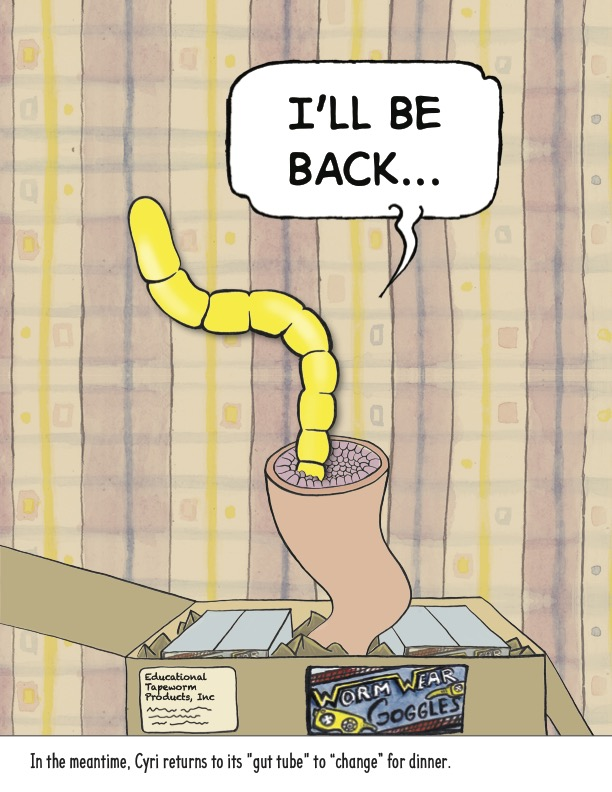
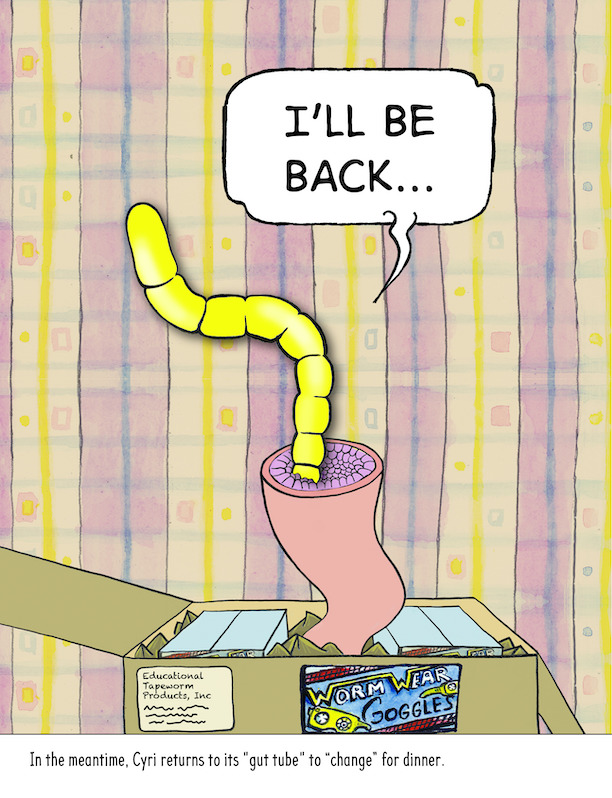
uploaded new images and made minor sizing and placement changes to accomidate

diff --git a/meet_the_suckers/src/FlipUp.tsx b/meet_the_suckers/src/FlipUp.tsx
@@ -3,11 +3,25 @@
 import { CSSProperties } from 'react';
 import styles from './FlipUp.module.css';
 
-import cursor from './assets/cursor.png';
+// import cursor from './assets/cursor.png';
 import flip_up_7a from './assets/suckers_7a.jpg';
 import flip_up_7b from './assets/suckers_7b.jpg';
 import flip_up_8a from './assets/suckers_8a.jpg';
 import flip_up_8b from './assets/suckers_8b.jpg';
+import flip_up_9a from './assets/suckers_9a.jpg';
+import flip_up_9b from './assets/suckers_9b.jpg';
+import flip_up_10a from './assets/suckers_10a.jpg';
+import flip_up_10b from './assets/suckers_10b.jpg';
+import flip_up_10c from './assets/suckers_10c.jpg';
+import flip_up_11a from './assets/suckers_11a.jpg';
+import flip_up_11b from './assets/suckers_11b.jpg';
+import flip_up_12a from './assets/suckers_12a.jpg';
+import flip_up_12b from './assets/suckers_12b.jpg';
+import flip_up_13a from './assets/suckers_13a.jpg';
+import flip_up_13b from './assets/suckers_13b.jpg';
+import flip_up_13c from './assets/suckers_13c.jpg';
+import flip_up_14a from './assets/suckers_14a.jpg';
+import flip_up_14b from './assets/suckers_14b.jpg';
 
 type FlipUpProps =  { 
     flipUp: IFlipUp, 
@@ -129,9 +143,10 @@ export interface IFlipUp {
 };
 
 export const FlipUpData: IFlipUp[] = [
+    // page  7
     {
         x: 265,
-        y: 210,
+        y: 200,
         width: 130,
         height: 98,
         imgSrc: flip_up_7a,
@@ -143,117 +158,131 @@ export const FlipUpData: IFlipUp[] = [
         height: 98,
         imgSrc: flip_up_7b,
         direction: EDirection.UP
-    }, {
+    }, 
+    // page 8
+    {
         x: 215,
         y: 175,
-        width: 120,
-        height: 100,
+        width: 130,
+        height: 98,
         imgSrc: flip_up_8a,
         direction: EDirection.UP
     }, {
         x: 230,
-        y: 410,
-        width: 120,
-        height: 100,
+        y: 390,
+        width: 130,
+        height: 98,
         imgSrc: flip_up_8b,
         direction: EDirection.UP
-    }, {
+    }, 
+    // page 9
+    {
         x: 275,
-        y: 250,
-        width: 120,
-        height: 100,
-        imgSrc: flip_up_7b,
+        y: 240,
+        width: 130,
+        height: 98,
+        imgSrc: flip_up_9a,
         direction: EDirection.UP
     }, {
         x: 338,
-        y: 576,
-        width: 120,
-        height: 100,
-        imgSrc: flip_up_7b,
+        y: 556,
+        width: 130,
+        height: 98,
+        imgSrc: flip_up_9b,
         direction: EDirection.UP
-    }, {
+    }, 
+    // page 10
+    {
         x: 110,
-        y: 105,
-        width: 120,
-        height: 100,
-        imgSrc: flip_up_7b,
+        y: 125,
+        width: 130,
+        height: 98,
+        imgSrc: flip_up_10a,
         direction: EDirection.UP
     }, {
         x: 230,
-        y: 342,
-        width: 120,
-        height: 100,
-        imgSrc: flip_up_7b,
+        y: 332,
+        width: 130,
+        height: 98,
+        imgSrc: flip_up_10b,
         direction: EDirection.UP
     }, {
         x: 158,
-        y: 592,
-        width: 120,
-        height: 100,
-        imgSrc: flip_up_7b,
+        y: 575,
+        width: 130,
+        height: 98,
+        imgSrc: flip_up_10c,
         direction: EDirection.UP
-    }, {
+    }, 
+    // page 11
+    {
         x: 124,
         y: 156,
-        width: 120,
-        height: 100,
-        imgSrc: flip_up_7b,
+        width: 130,
+        height: 98,
+        imgSrc: flip_up_11a,
         direction: EDirection.UP
     }, {
         x: 165,
         y: 343,
-        width: 120,
-        height: 100,
-        imgSrc: flip_up_7b,
+        width: 130,
+        height: 98,
+        imgSrc: flip_up_11b,
         direction: EDirection.UP
-    }, {
+    }, 
+    // page 12
+    {
         x: 85,
-        y: 105,
-        width: 120,
-        height: 100,
-        imgSrc: flip_up_7b,
+        y: 125,
+        width: 130,
+        height: 98,
+        imgSrc: flip_up_12a,
         direction: EDirection.UP
     }, {
-        x: 405,
-        y: 475,
-        width: 120,
-        height: 100,
-        imgSrc: flip_up_7b,
+        x: 395,
+        y: 465,
+        width: 130,
+        height: 98,
+        imgSrc: flip_up_12b,
         direction: EDirection.UP
-    }, {
+    }, 
+    // page 13
+    {
         x: 165,
         y: 322,
-        width: 120,
-        height: 100,
-        imgSrc: flip_up_7b,
+        width: 130,
+        height: 98,
+        imgSrc: flip_up_13a,
         direction: EDirection.UP
     }, {
         x: 103,
         y: 580,
-        width: 120,
-        height: 100,
-        imgSrc: flip_up_7b,
+        width: 130,
+        height: 98,
+        imgSrc: flip_up_13b,
         direction: EDirection.UP
     }, {
         x: 408,
         y: 592,
-        width: 120,
-        height: 100,
-        imgSrc: flip_up_7b,
+        width: 130,
+        height: 98,
+        imgSrc: flip_up_13c,
         direction: EDirection.UP
-    }, {
+    }, 
+    // page 14
+    {
         x: 430,
         y: 172,
-        width: 120,
-        height: 100,
-        imgSrc: flip_up_7b,
+        width: 130,
+        height: 98,
+        imgSrc: flip_up_14a,
         direction: EDirection.UP
     }, {
         x: 240,
         y: 543,
-        width: 120,
-        height: 100,
-        imgSrc: flip_up_7b,
+        width: 130,
+        height: 98,
+        imgSrc: flip_up_14b,
         direction: EDirection.UP
     }, 
 ];

diff --git a/meet_the_suckers/src/App.tsx b/meet_the_suckers/src/App.tsx
@@ -35,7 +35,7 @@ import page_24 from './assets/suckers_24.jpg';
 
 // constants
 const WIDTH = 612; // TODO: dynamic sizing
-const HEIGHT = 792;
+const HEIGHT = 798;
 
 function App() {
   const [currentPageNum, setCurrentPageNum] = useState<number>(0);
